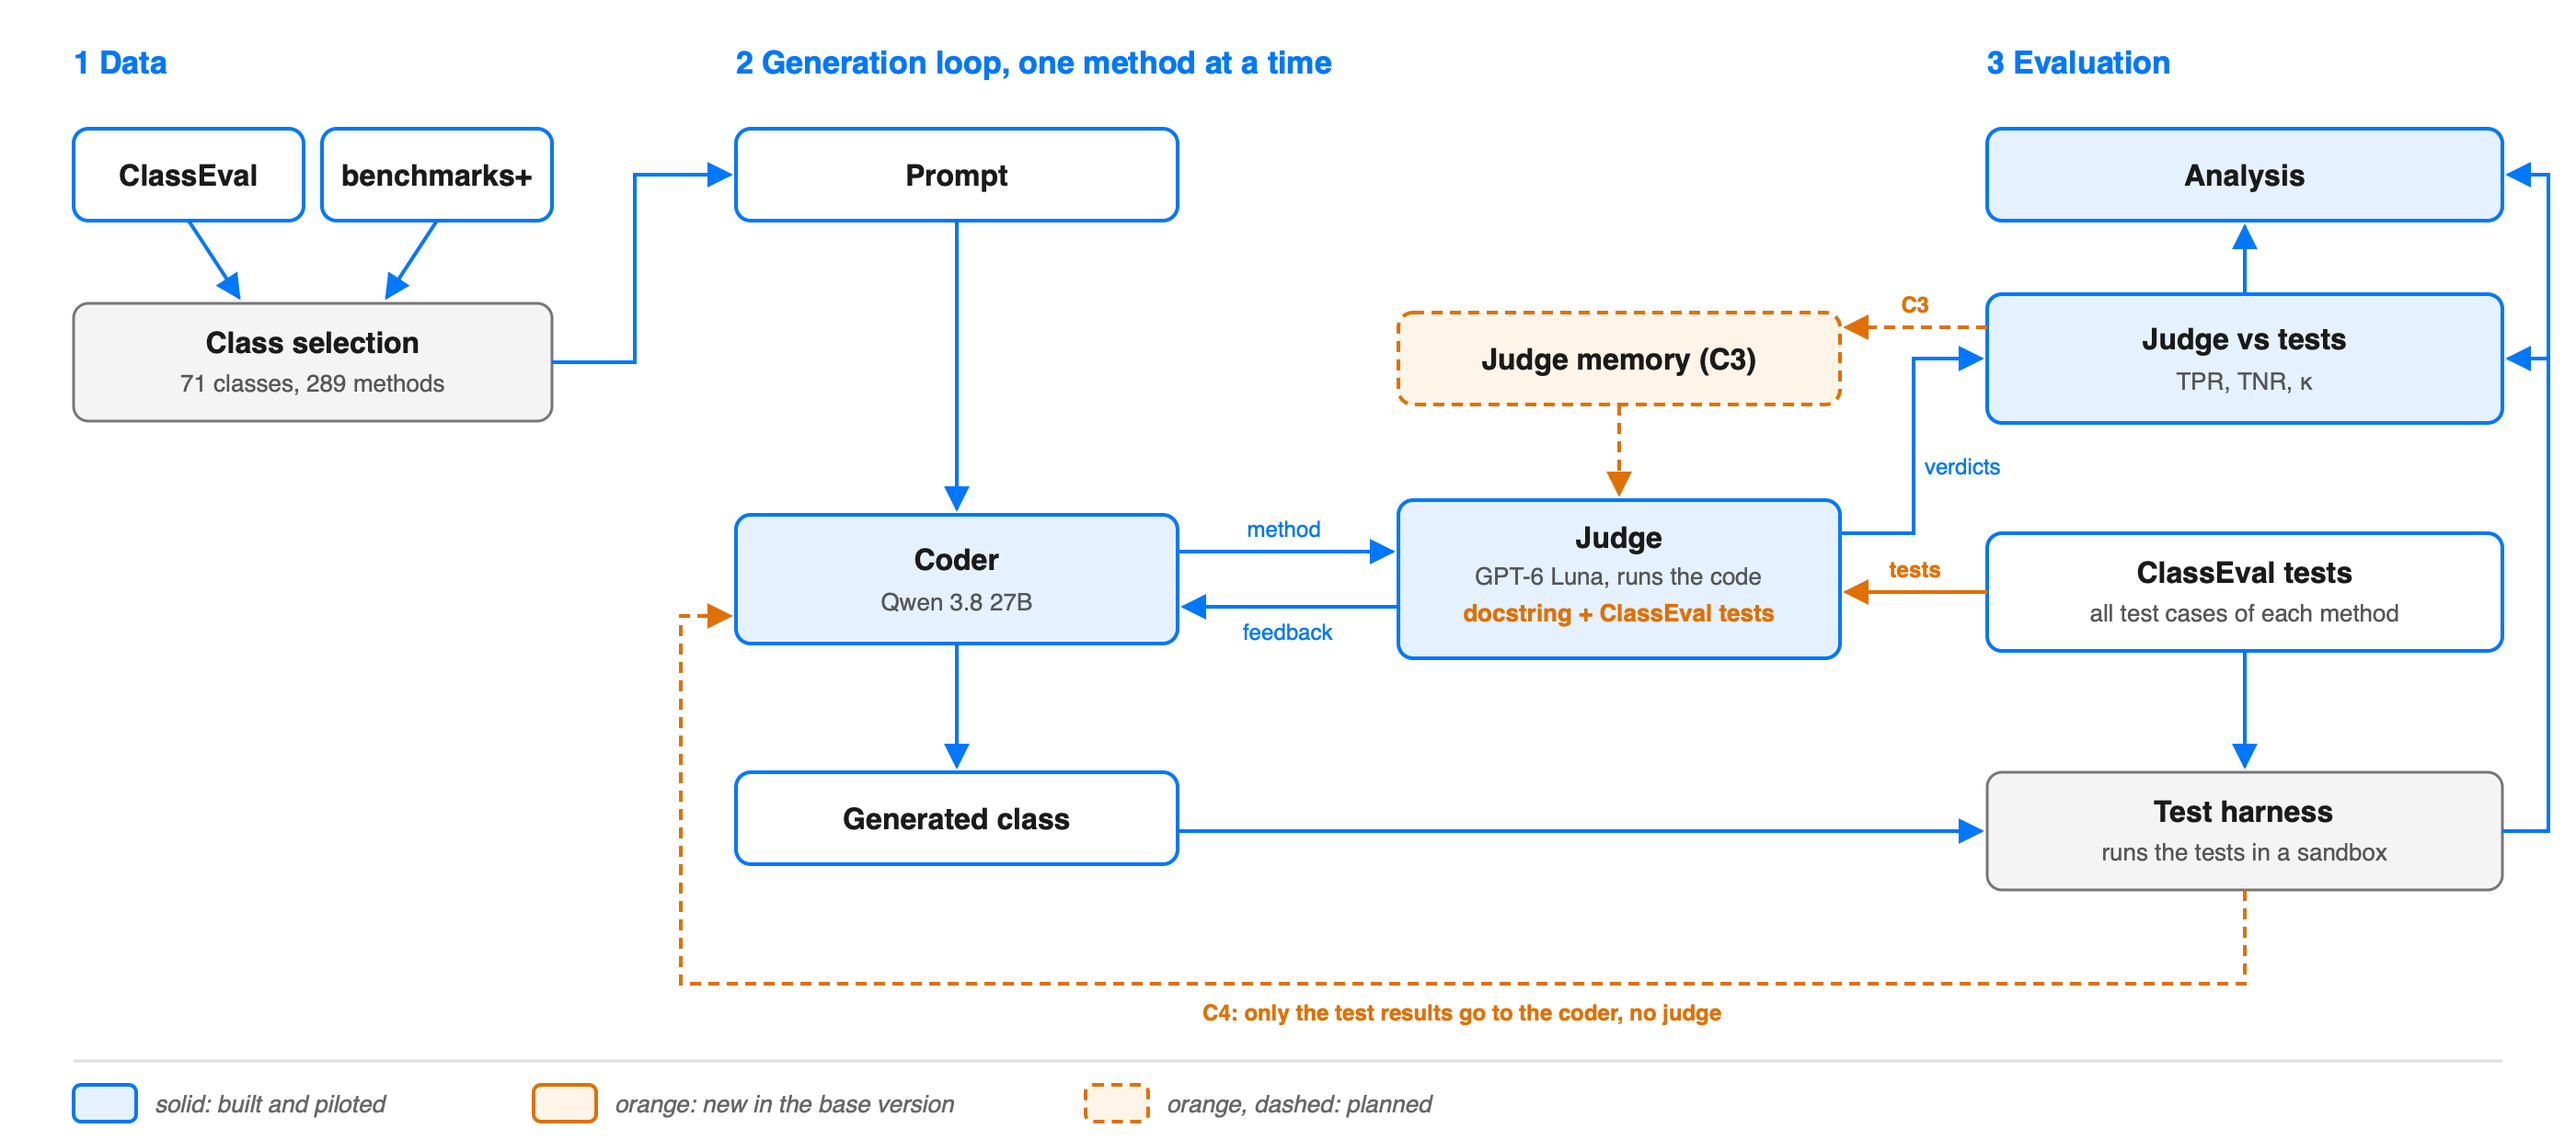
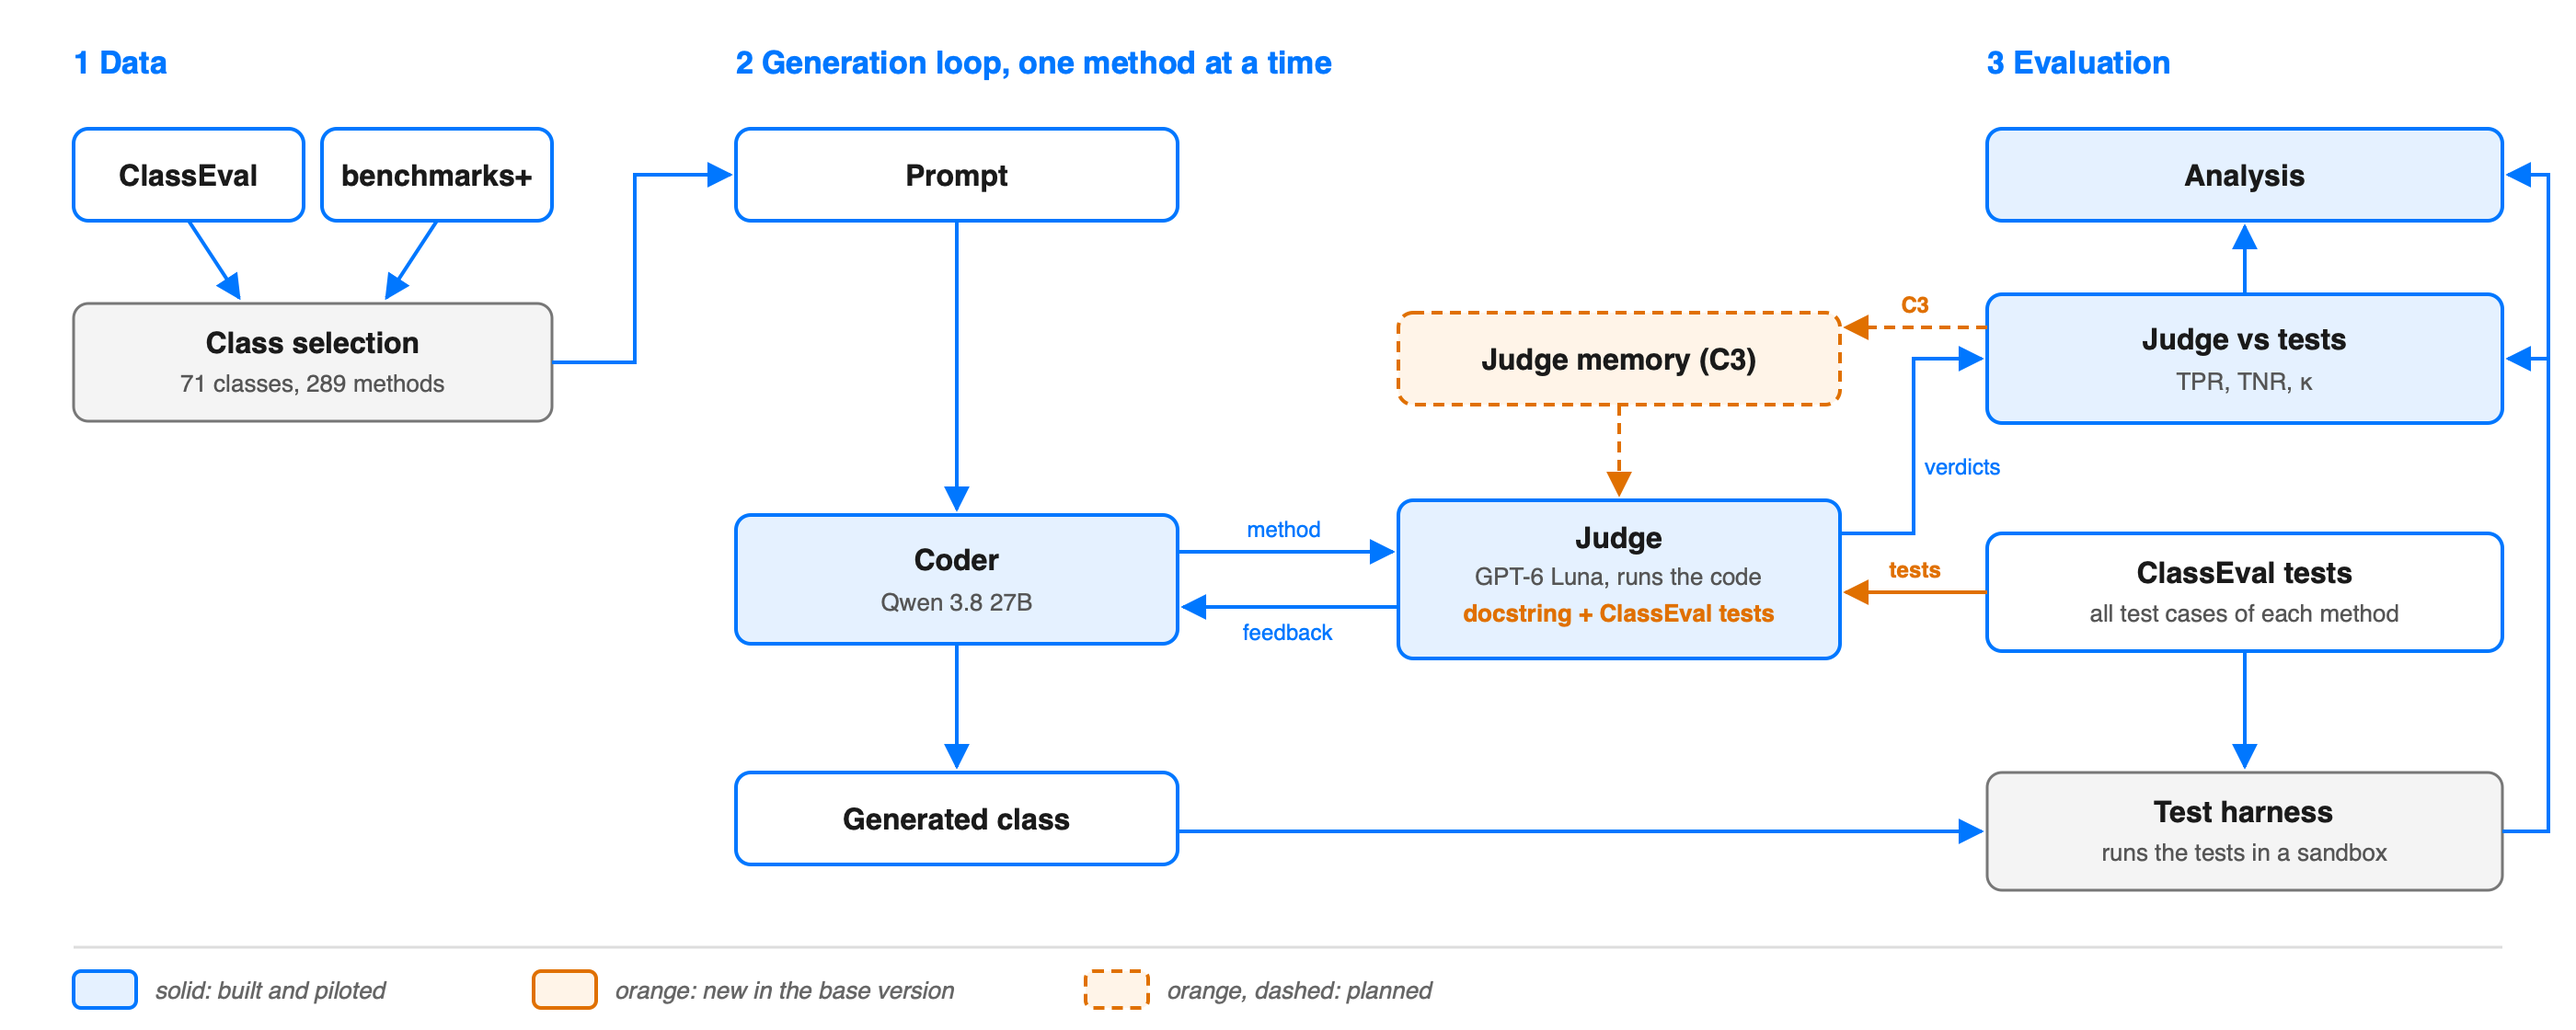
Keep a coder and a judge in every setup: drop C0 and C4
The project needs a judge in every setup, so only C1, C2 and C3 remain.
The baseline is inside each setup: the first version of each method,
written before any feedback, against the final one. The diagram loses
the C4 arrow; the README, the roadmap and the docstrings of coder.py and
judge.py describe the base version.

diff --git a/scripts/coder.py b/scripts/coder.py
@@ -1,8 +1,10 @@
-"""Setup C0: Qwen writes each class one method at a time, with no feedback.
+"""The coder alone: Qwen writes each class one method at a time, with no feedback.
 
-For each method it gets the class skeleton, the methods written so far and the method's name,
-never the tests. A reply without a usable method leaves a stub and is not asked again. Results go
-to runs/<name>/<task_id>.json and every request to runs/cost_log.csv.
+The pilot ran this as setup C0. In the base version every setup has a judge, and these are the
+first versions, written before any feedback. For each method it gets the class skeleton, the
+methods written so far and the method's name, never the tests. A reply without a usable method
+leaves a stub and is not asked again. Results go to runs/<name>/<task_id>.json and every request to
+runs/cost_log.csv.
 
     .venv/bin/python scripts/coder.py --dry-run ClassEval_19      # show the first prompt
     .venv/bin/python scripts/coder.py ClassEval_19 ClassEval_53
@@ -138,7 +140,7 @@ def run_class(client, task, steps, setup=SETUP, model=MODEL):
 
 
 def main():
-    parser = argparse.ArgumentParser(description="Setup C0: the coder writes each class with no feedback.")
+    parser = argparse.ArgumentParser(description="The coder alone: it writes each class with no feedback.")
     parser.add_argument("tasks", nargs="*", help="task ids, such as ClassEval_19")
     parser.add_argument("--all", action="store_true", help="every kept class")
     parser.add_argument("--dry-run", action="store_true", help="print the first prompt and send nothing")

diff --git a/scripts/judge.py b/scripts/judge.py
@@ -1,6 +1,7 @@
 """The judge: GPT-6 Luna says whether a method, or a whole class, does what its docstring says.
 
-It sees the class skeleton, the methods written before and the new one, never the tests. It
+It sees the class skeleton, the methods written before and the new one, never the tests; in the
+base version, not built yet, it will also get the tests of the method and their results. It
 answers in JSON with a reason and a verdict, OK or NOT OK. Judge v1 only reads the code; v2 can
 also run Python up to 5 times on the class written so far. Both use the Responses API, because
 Chat Completions does not accept tools with a reasoning effort for this model.

diff --git a/README.md b/README.md
@@ -37,15 +37,16 @@ Solid parts are built and were tried in the pilot. Orange parts are new in the b
 planned when dashed.
 The first diagram, from before the pilot, is in `docs/architecture.svg`.
 
-We keep coder and tasks fixed and change only the feedback:
+Every setup has a coder and a judge; they differ in when and how the judge gives its feedback:
 
 | Setup | Feedback to the coder | Status |
 |---|---|---|
-| C0 | none (baseline) | piloted |
 | C1 | the judge reviews the finished class, with the results of all its tests; one revision of the class | piloted without tests |
 | C2 | after each method the judge runs its tests and reviews it; one revision of that method | piloted without tests |
 | C3 | as C2, plus a memory of the judge's mistakes that we confirm by hand | planned |
-| C4 | the coder gets only the test results, without the judge | planned |
+
+There is no setup without the judge: the baseline is inside each setup, in the first version of
+each method, written before any feedback.
 
 **One method in C2.** (1) The coder writes the method. (2) The tests of that method run on the
 class written so far. (3) The judge gets the docstring, the code and the test results, may run code
@@ -82,9 +83,8 @@ the class is finished, all its tests run on the first and on the final versions:
 - **Methods not written yet.** The tests of 14 of the 289 methods also call a method that comes
   later in the order, which is still a stub. The judge is told which methods are missing, so it does
   not blame the method for them.
-- **C4 without the judge.** The coder gets only the test results, so C2 against C4 shows what the
-  judge adds to the tests.
-- **The grade** stays the same in every setup: all the ClassEval tests on the finished class.
+- **The grade** stays the same in every setup: all the ClassEval tests on the finished class, with
+  the first and with the final versions of the methods.
 
 Later variants (a memory for the coder, a coder that runs its own code, test cases split between
 the judge and the grade, judge v3, our labels, controls) are in the [roadmap](docs/roadmap_midway.md).
@@ -117,7 +117,7 @@ the prompt, send nothing) and skip classes already done unless you pass `--force
 .venv/bin/python scripts/check_api.py
 .venv/bin/python scripts/budget.py
 
-# C0: the coder alone
+# the coder alone (setup C0 of the pilot, now only the first versions)
 .venv/bin/python scripts/coder.py ClassEval_19 ClassEval_55
 .venv/bin/python scripts/coder.py --all
 
@@ -194,7 +194,7 @@ tests.
 
 ![The judge's TPR and TNR on the 27B and 9B runs](docs/figures/judge_rates.png)
 
-The open questions (coder, conflicting tests, repetitions, proposals) are in the
+The open questions (coder, conflicting tests, repetitions, later variants) are in the
 [roadmap](docs/roadmap_midway.md).
 
 ## 7. References and data

diff --git a/docs/roadmap_midway.md b/docs/roadmap_midway.md
@@ -43,7 +43,7 @@ source is `architecture_base.svg`.
 - [ ] **Base judge** (10 to 12 Nov). `judge.py` gets the tests of the method and their results;
   `loop.py` runs them after each method and tells the judge which methods are still missing. A dry
   run on the development classes first.
-- [ ] **Full runs** (12 to 13 Nov). C0, C1 and C2 on the 71 classes, after the instructors' answer.
+- [ ] **Full runs** (12 to 13 Nov). C1 and C2 on the 71 classes, after the instructors' answer.
 - [ ] **Analysis** (14 to 15 Nov). Pass rates with and without the weak methods, the judge's TPR
   and TNR, McNemar tests and bootstrap intervals (`analyze.py`).
 - [ ] **Error analysis** (14 to 15 Nov). 20 disagreements between judge and tests, grouped into
@@ -58,8 +58,7 @@ source is `architecture_base.svg`.
 
 - [ ] **C3, the flywheel** (20 to 29 Nov). Three rounds of classes; between rounds the judge keeps
   a memory of its mistakes.
-- [ ] **C4 and the controls** (30 Nov to 6 Dec). C4 gives the coder the test results.
-  Controls: judge v1 (no tools) and self-refine.
+- [ ] **Later variants** (30 Nov to 6 Dec), the ones the instructors accept.
 - [ ] **Full analysis** (7 to 11 Dec), answering RQ1, RQ2 and RQ3.
 - [ ] **Final report** (7 to 16 Dec), with a draft at the lab of 14 December.
 - [ ] **Presentation** (17 Dec).
@@ -76,7 +75,8 @@ source is `architecture_base.svg`.
   still stubs.
 - [ ] **Feedback after every method (C2) and at the end of the class (C1)**, as for RQ1. The grade is
   always all the ClassEval tests on the finished class.
-- [ ] **C4 with the tests only**, without the judge: C2 against C4 measures what the judge adds.
+- [ ] **Always a coder and a judge** (10 Nov). C0 and C4 are dropped. The baseline is the first
+  version of each method, written before any feedback, against the final one.
 
 ## Later variants, to discuss with the instructors
 
@@ -92,8 +92,8 @@ Each comes with its reason and source.
   judge, the others give the grade (224 of the 289 methods have five), so the grade does not use
   the tests the judge has seen.
 
-- [ ] **Same first versions in every setup.** C1 and C2 reuse the first versions of C0 while the
-  prompt is identical, since two identical C0 runs differ by 3 methods, as much as the feedback.
+- [ ] **Same first versions in every setup.** C1 and C2 start from the same first versions, written
+  once with the same prompt, since two identical runs differ by 3 methods, as much as the feedback.
 - [ ] **Our labels next to the tests, with TPR and TNR.** The paper judges its judge against human
   experts, and our tests and docstrings often disagree. We write the labelling criteria first,
   because people change them while labelling (Shankar et al. 2024, "criteria drift").
